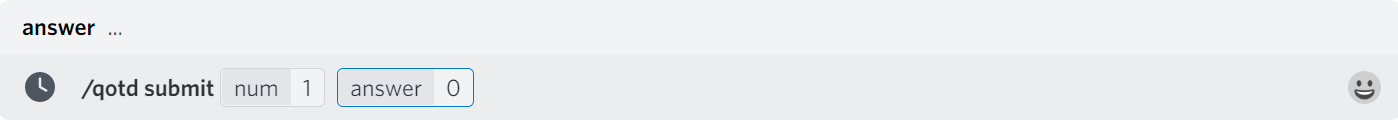
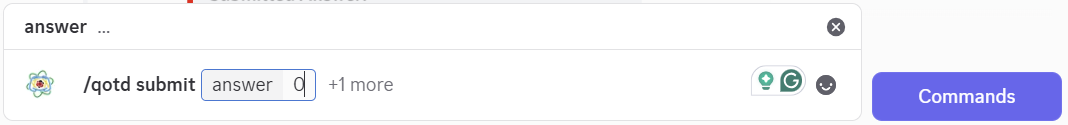
a

diff --git a/cogs/qotd.py b/cogs/qotd.py
@@ -148,7 +148,7 @@ class Qotd(Cog):
                 file=discord.File(os.path.join("images", "submit.png")),
             )
             await message.channel.send(
-                "Then type the number and respective answer to the question you want to submit. As shown below.",
+                "Then type the answer to the question to submit. As shown below.",
                 file=discord.File(os.path.join("images", "qotd.png")),
             )
             await message.channel.send(
